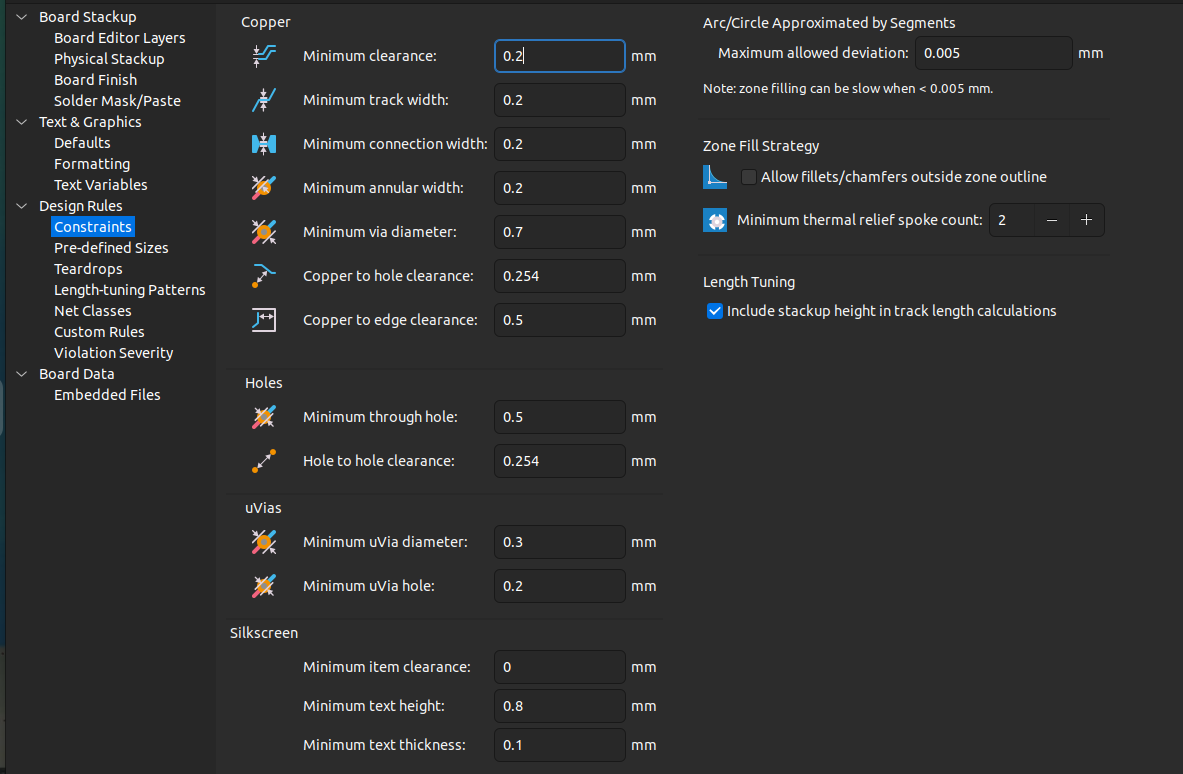
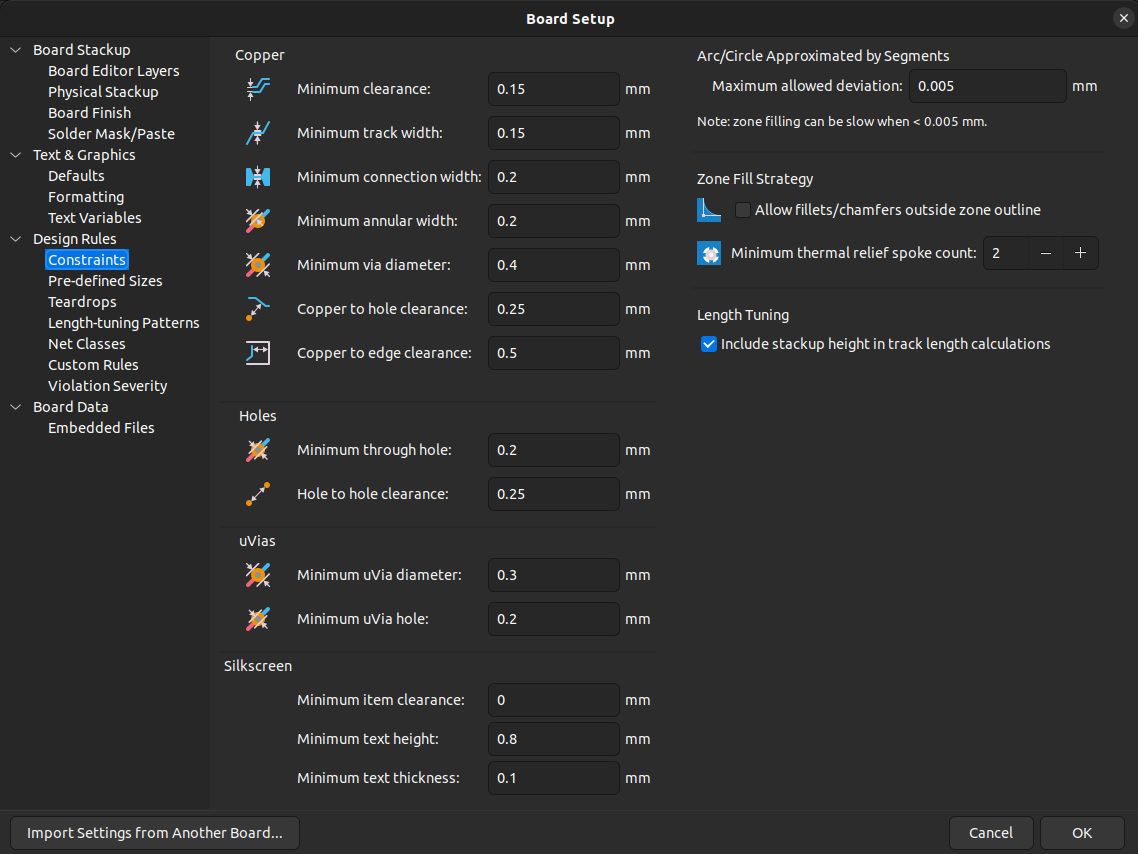
updated notes

diff --git a/docs/notes/Guide-to-Schematics.md b/docs/notes/Guide-to-Schematics.md
@@ -9,6 +9,14 @@ This should be your first step (other than planning) for creating a PCB!
 - Click `Page Settings...`
 - Fill in the rest!
 
+Click on this button
+
+![Schematic-Page-Button](../pics/Schematic-Page-Button.png)
+
+And Fill in these properties
+
+![Schematic-Page-Setup](../pics/Schematic-Page-Setup.png)
+
 ## Coloring Netclasses
 
 This section is how to color netclasses to look something like this!
